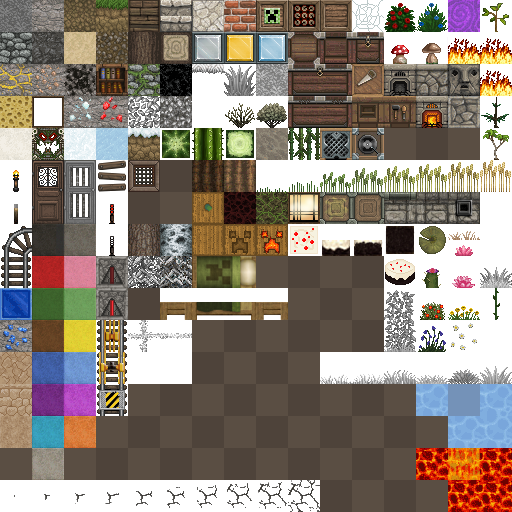
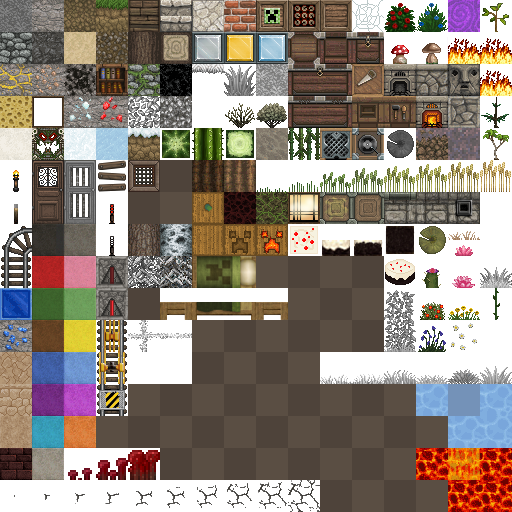
added crappy versions of the new 1.9pre textures

Changed region(s): [[0.75, 0.25, 0.9375, 0.3125], [0.125, 0.875, 0.3125, 0.9375], [0.0, 0.875, 0.0625, 0.9375]]

diff --git a/terrain.js b/terrain.js
@@ -195,7 +195,11 @@ var settings = {
 	"override": {
 		"pack": "sakofdonuts",
 		"coords": [
-			[3,8], [3,9] //repeater
+			[12,4],                //water lily
+			[13,4], [14,4],        //mycelium
+			[3,8], [3,9],          //repeater
+			[0,14],                //nether brick
+			[2,14], [3,14], [4,14] //nether wart
 		]}
 	//TODO (custom alternative): other break anims
 	//TODO: externalize
